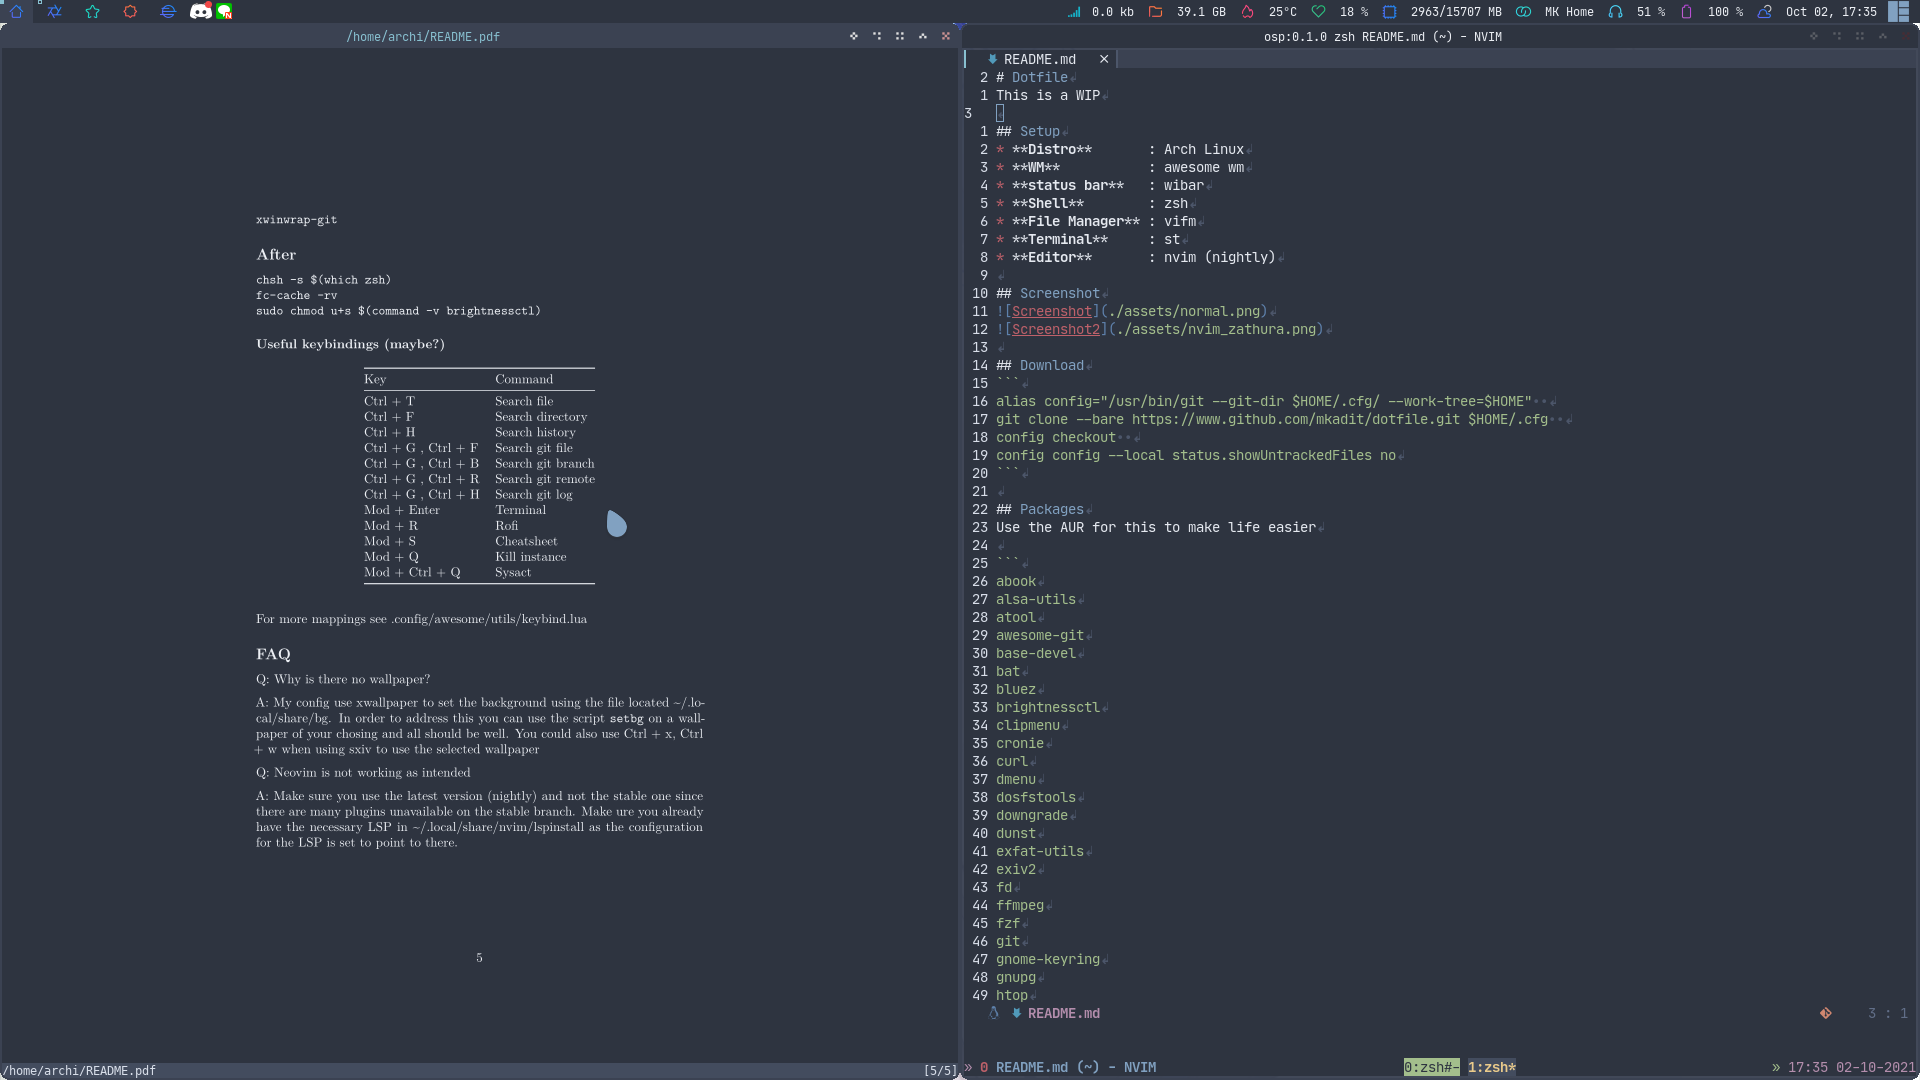
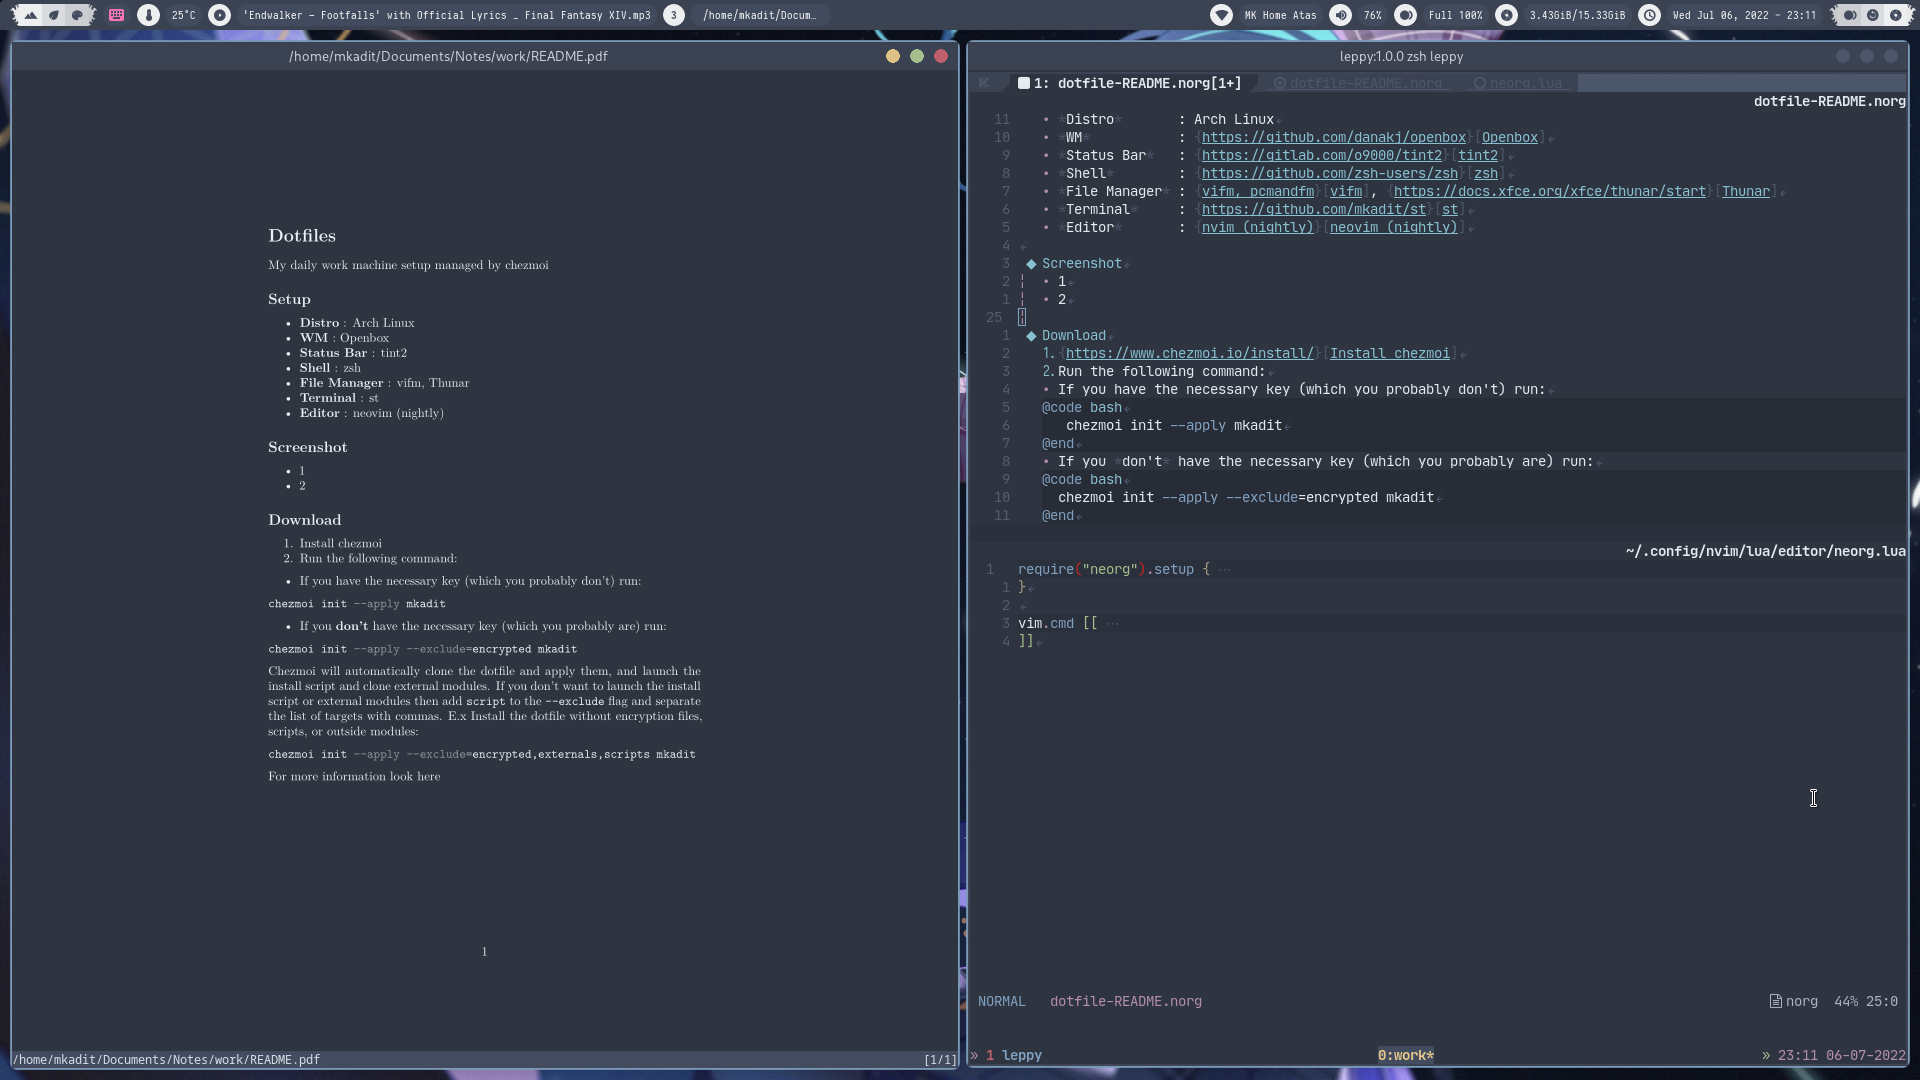
feat(dot): Update README

diff --git a/README.md b/README.md
@@ -1,16 +1,16 @@
-# Dotfile
+# Dotfiles
 
-This is a WIP
+My daily work machine setup managed by [chezmoi](https://www.chezmoi.io/quick-start)
 
 ## Setup
 
-- **Distro** : Arch Linux
-- **WM** : awesome wm, dwm
-- **status bar** : wibar
-- **Shell** : zsh
-- **File Manager** : vifm
-- **Terminal** : st
-- **Editor** : nvim (nightly)
+- **Distro**       : Arch Linux
+- **WM**           : [Openbox](https://github.com/danakj/openbox)
+- **Status Bar**   : [tint2](https://gitlab.com/o9000/tint2)
+- **Shell**        : [zsh](https://github.com/zsh-users/zsh)
+- **File Manager** : [vifm](vifm,%20pcmandfm), [Thunar](https://docs.xfce.org/xfce/thunar/start)
+- **Terminal**     : [st](https://github.com/mkadit/st)
+- **Editor**       : [neovim (nightly)](nvim%20(nightly))
 
 ## Screenshot
 
@@ -19,74 +19,27 @@ This is a WIP
 
 ## Download
 
-```
-alias config="/usr/bin/git --git-dir $HOME/.cfg/ --work-tree=$HOME"
-git clone --bare https://www.github.com/mkadit/dotfile.git $HOME/.cfg
-config checkout
-config config --local status.showUntrackedFiles no
-```
+1. [Install chezmoi](https://www.chezmoi.io/install/)
+2. Run the following command:
+- If you have the necessary key (which you probably don't) run:
 
-## Packages
-
-Use the AUR for this to make life easier
-
-```
-abook alsa-utils atool awesome-git base-devel bat bluez brightnessctl btop clipmenu cronie curl dmenu dosfstools downgrade dunst exfat-utils exiv2 fcitx5 fcitx5-gtk fcitx5-qt fcitx5-configtool fcitx5-mozc fcitx5-nord fd ffmpeg fzf git gnome-keyring gnupg htop imagemagick isync jq libnotify lxsession man-db mediainfo mpc mpd mpv msmtp mutt-wizard ncmpcpp neofetch neomutt newsboat nerd-fonts-jetbrains-mono ncdu nordic-theme-git notmuch ntfs-3g openssh pamixer papirus-nord pass pavucontrol picom playerctl poppler pulseaudio pulseaudio-alsa qutebrowser rclone ripgrep rmlint rofi simple-mtpfs slop sxiv thunar tmux ueberzug unclutter unrar unzip urlview vieb-bin vifm xclip xdotool xorg-server xorg-xbacklight xorg-xdpyinfo xorg-xinit xorg-xprop xorg-xsetroot xorg-xwininfo xwallpaper yt-dlp-git yt-dlp-drop-in zathura zathura-pdf-mupdf zsh zsh-autocomplete-git zsh-fast-syntax-highlighting ip-route2 wireless-tools
+```bash
+chezmoi init --apply mkadit
 ```
 
-## Optional
+- If you **don't** have the necessary key (which you probably are) run:
 
-Below package are optional
-
-If you are planning to use openbox
+```bash
+chezmoi init --apply --exclude=encrypted mkadit
 ```
-obmenu-generator openbox plank tint3 gsimplecal lxappearance lxpolkit
+Chezmoi will automatically clone the dotfile and apply them, and launch the
+[install script](./local/src/scripts/install.sh) and clone
+[external modules](.chezmoiexternal.toml). If you don't want to launch the
+install script or external modules then add `script` to the `--exclude` flag
+and separate the list of targets with commas. E.x Install the dotfile
+without encryption files, scripts, or outside modules:
+
+```bash
+chezmoi init --apply --exclude=encrypted,externals,scripts mkadit
 ```
-
-programming stuff
-```
-autopep8 docker docker-compose postgresql prettierd shellcheck shfmt stylua xwinwrap-git
-```
-
-zsh auto complete alternative (do note you'll need change .zshrc)
-```
-zsh-autosuggestions zsh-completion
-```
-
-Graphic related
-
-```
-mesa-utils nvidia-prime
-```
-
-## After
-
-```
-chsh -s $(which zsh)
-fc-cache -rv
-sudo chmod u+s $(command -v brightnessctl)
-```
-
-## Suckless Builds
-
-- [dwm](https://github.com/mkadit/dwm)
-- [st](https://github.com/mkadit/st)
-
-### Useful keybindings (maybe)
-
-- [awesome wm keybindings](.config/awesome/utils/keybind.lua)
-- [zsh keybindings](.config/zsh/key-bindings.zsh)
-
-## FAQ
-
-Q: Why is there no wallpaper?
-
-A: My config use xwallpaper to set the background using the file located ~/.local/share/bg. In order to address
-this you can use the script `setbg` on a wallpaper of your chosing and all should be well. You could also use
-<kbd>Ctrl</kbd> + <kbd>x</kbd>, <kbd>Ctrl</kbd> + <kbd>w</kbd> when using sxiv to use the selected wallpaper
-
-Q: Neovim is not working as intended
-
-A: Make sure you use the latest version (nightly) and not the stable one since there are many plugins unavailable on the stable branch. Make ure you already have the necessary LSP in ~/.local/share/nvim/lspinstall as the
-configuration for the LSP is set to point to there.
-
+For more information look [here](https://www.chezmoi.io/reference/command-line-flags/common/%23-f-format-jsonyaml)
